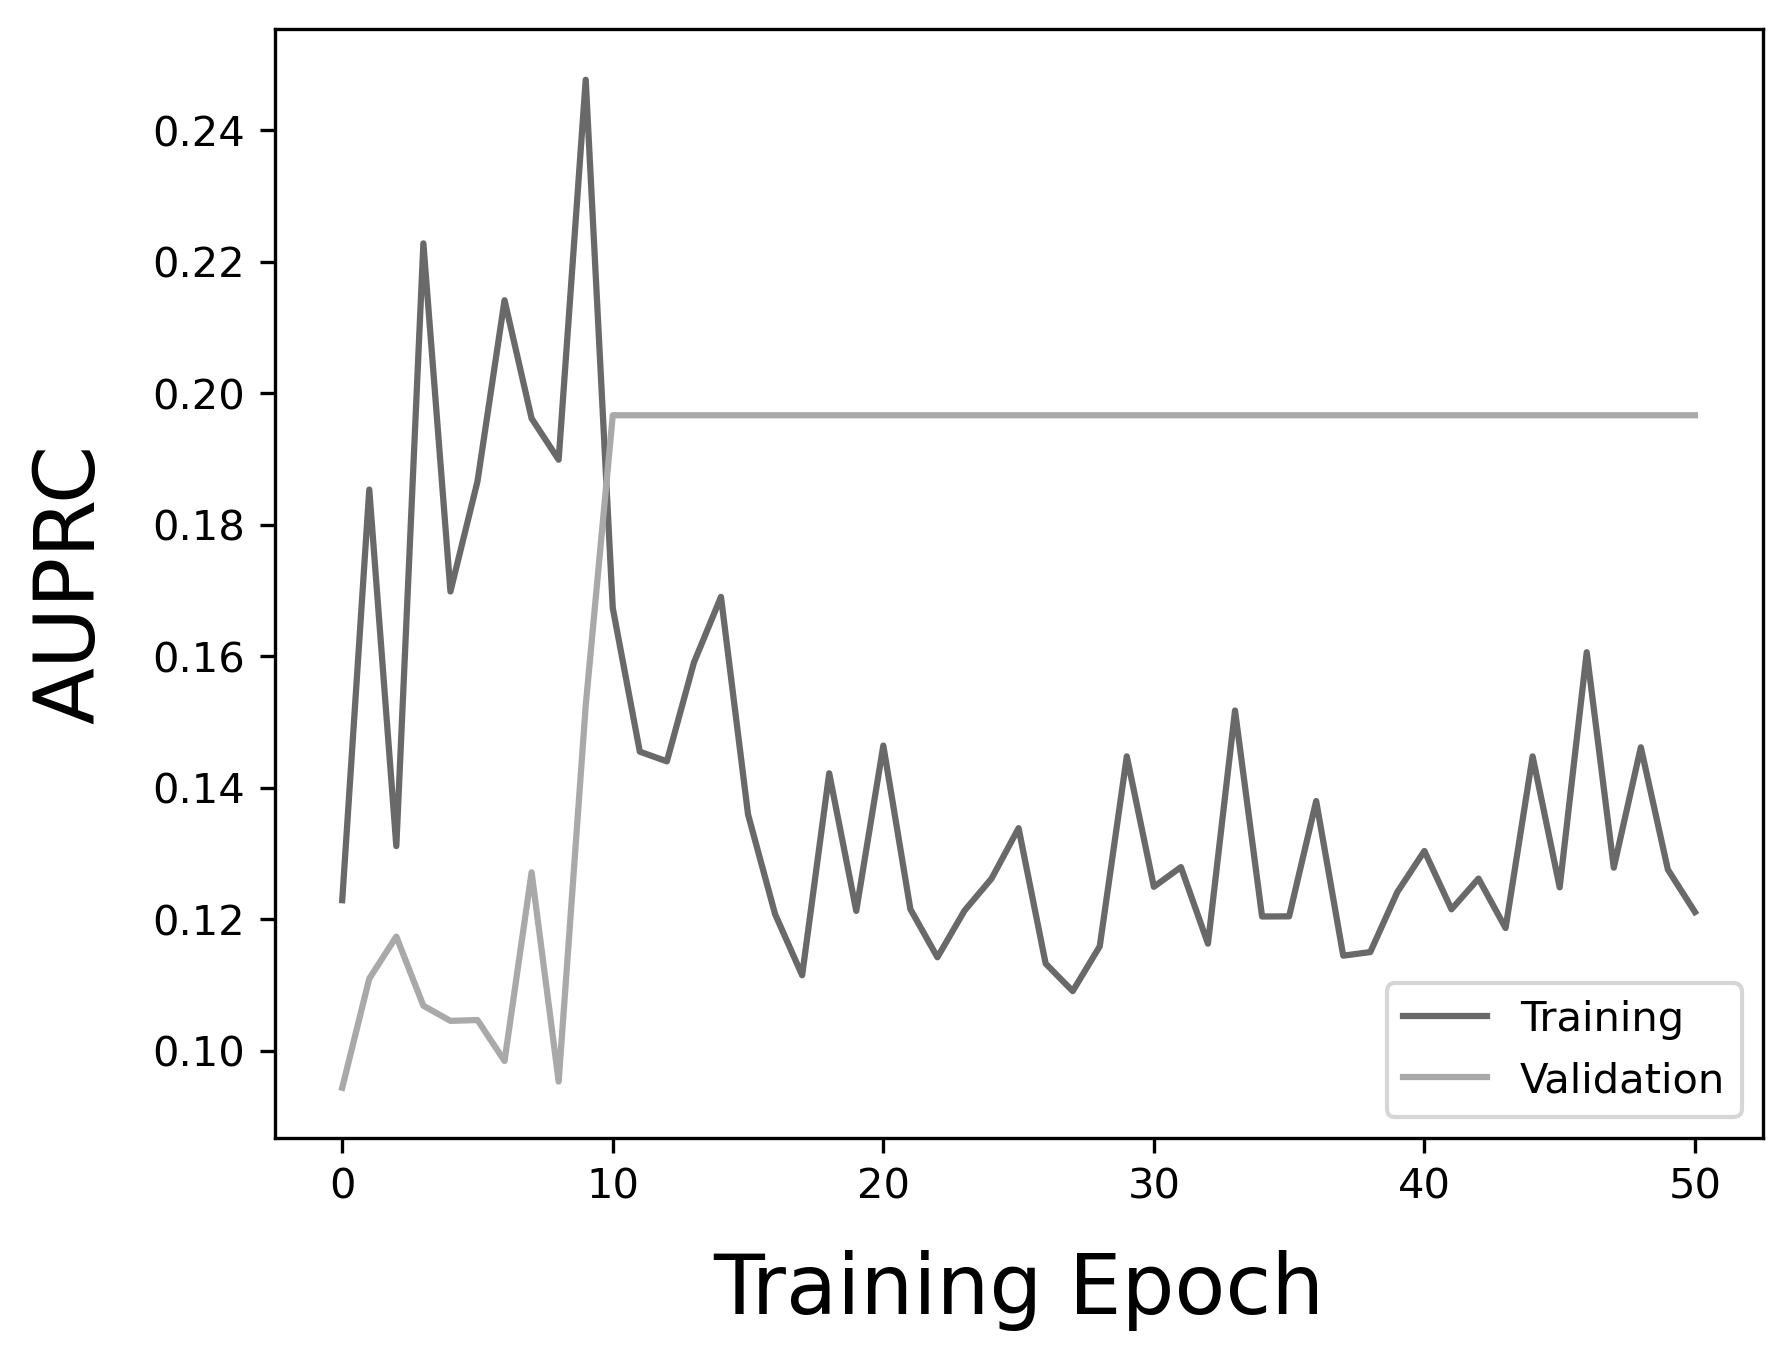
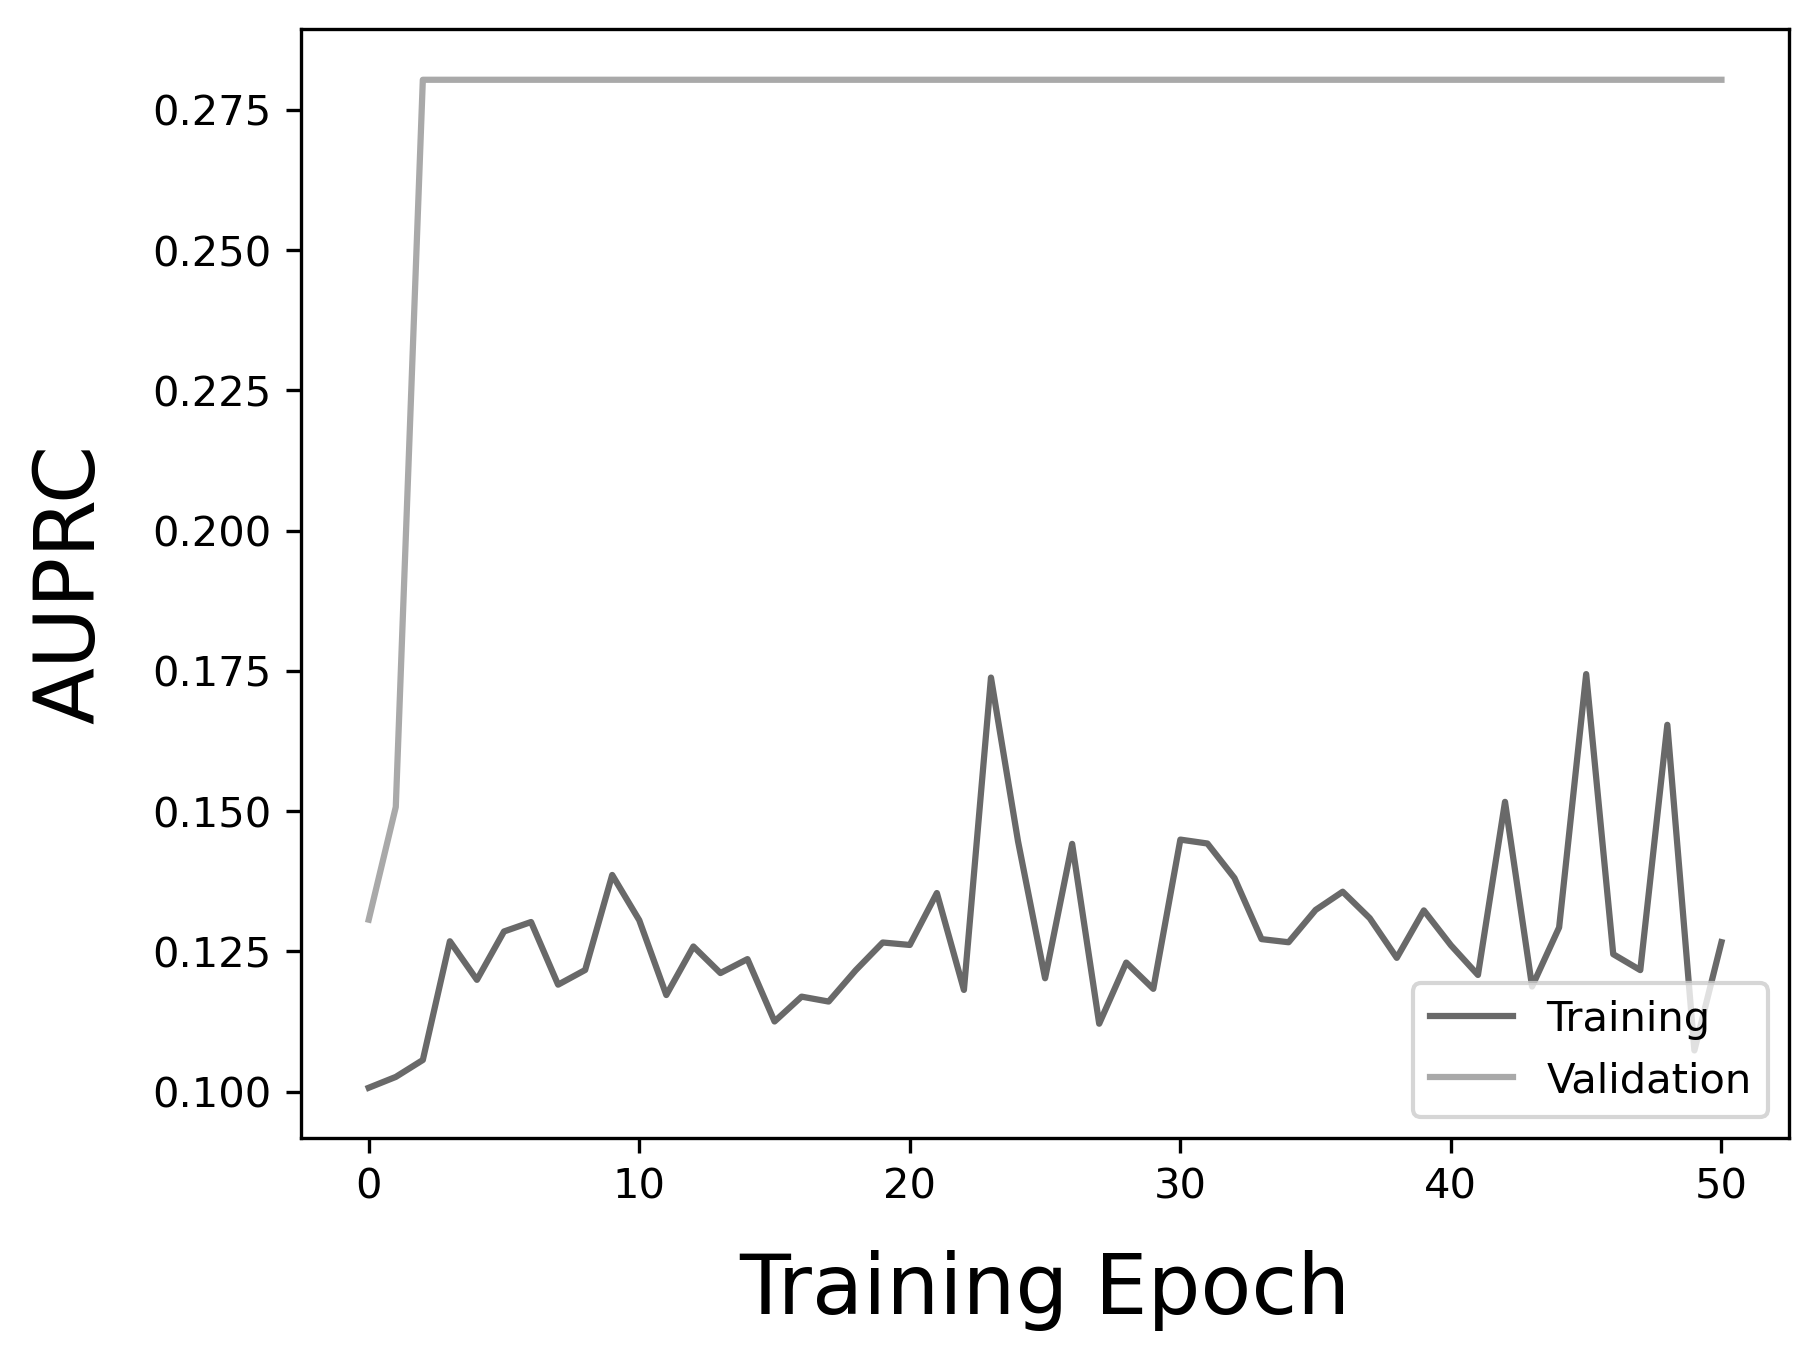
Add soft clipping and outlier smoothing transform

diff --git a/train.py b/train.py
@@ -47,7 +47,7 @@ from monai.data import (
 from monai.utils import set_determinism
 from monai.utils.misc import ensure_tuple_rep
 from scipy.ndimage import binary_closing
-from data.transforms import PercentileSpatialCropd, CorrectBiasFieldd, NyulNormalized
+from data.transforms import SpatialCropPercentiled, NyulNormalized, SoftClipIntensityd, GaussianSmoothOutliersd
 from data.splits import GroupStratifiedSplit
 from data.datasets import CacheSeqDataset
 from data.utils import DatasetPreprocessor, convert_to_dict, convert_to_seqdict, collate_sequence_batch
@@ -545,7 +545,7 @@ def load_train_objs(
     #     num_workers=8,
     #     copy_cache=False) for x in ['train','val']}
     dataloader = {x: ThreadDataLoader(
-        datasets[x], 
+        dataset=datasets[x], 
         batch_size=(args.batch_size if x == 'train' else 1), 
         shuffle=(True if x == 'train' else False),   
         num_workers=0,
@@ -587,50 +587,46 @@ def data_transforms(
             k_divisible=1,
             allow_smaller=False),
         MedianSmoothd(keys=modalities, radius=1),
-        CorrectBiasFieldd(keys=modalities, shrink_factor=4),
         NyulNormalized(
             keys=modalities, 
             standard_hist=landmarks, 
             min_perc=0.01, 
-            max_perc=0.96, 
-            step_size=1, 
-            clip=True),
+            max_perc=0.95),
+        Lambdad(keys=modalities, func=lambda x: torch.where(torch.isnan(x), 1.0, x)),
         ConcatItemsd(keys=modalities, name='image'),
-        PercentileSpatialCropd(
+        SoftClipIntensityd(keys='image', max_value=1.0, channel_wise=True),
+        GaussianSmoothOutliersd(keys='image', max_value=0.99, channel_wise=True),
+        SpatialCropPercentiled(
             keys='image',
-            roi_center=(0.5, 0.35, 0.45),
-            roi_size=(0.85, 0.65, 0.8),
-            min_size=(96, 96, 96)),
-        Lambdad(
-            keys='image', 
-            func=lambda x: torch.where(torch.sum(x) == len(modalities), 0.0, x)),
-        DeleteItemsd(keys=modalities + ['MASK']),
+            roi_center=(0.45, 0.3, 0.45),
+            roi_size=(0.7, 0.45, 0.6),
+            min_size=(80, 80, 80)),
+        DeleteItemsd(keys=modalities + ['MASK'])
     ]
 
     train = [
-        EnsureTyped(keys='image', track_meta=False, device=device),
-        RandSpatialCropSamplesd(keys='image', roi_size=(96, 96, 96), random_size=False, num_samples=1),
+        CenterSpatialCropd(keys='image', roi_size=(96, 96, 96)),
+        EnsureTyped(keys='image', track_meta=False, device=device, dtype=torch.float),
+        RandSpatialCropSamplesd(keys='image', roi_size=(64, 64, 64), random_size=False, num_samples=1),
         RandFlipd(keys='image', prob=0.2, spatial_axis=0),
         RandFlipd(keys='image', prob=0.2, spatial_axis=1),
         RandFlipd(keys='image', prob=0.2, spatial_axis=2),
-        RandStdShiftIntensityd(keys='image', prob=0.5, factors=0.1, channel_wise=True),
         NormalizeIntensityd(
             keys='image', 
-            subtrahend=(0.3043, 0.2643, 0.2611, 0.2619),
-            divisor=(0.2418, 0.2165, 0.2051, 0.1919),
-            nonzero=True, 
-            channel_wise=True)
+            subtrahend=(0.3067, 0.2962, 0.3115, 0.3346),
+            divisor=(0.2268, 0.2088, 0.2013, 0.1911),
+            channel_wise=True),
+        RandStdShiftIntensityd(keys='image', prob=0.5, factors=0.1, channel_wise=True)
     ]
 
     val = [
-        CenterSpatialCropd(keys='image', roi_size=(96, 96, 96)),
+        CenterSpatialCropd(keys='image', roi_size=(80, 80, 80)),
         NormalizeIntensityd(
             keys='image', 
-            subtrahend=(0.3043, 0.2643, 0.2611, 0.2619),
-            divisor=(0.2418, 0.2165, 0.2051, 0.1919),
-            nonzero=True, 
+            subtrahend=(0.3067, 0.2962, 0.3115, 0.3346),
+            divisor=(0.2268, 0.2088, 0.2013, 0.1911),
             channel_wise=True),
-        EnsureTyped(keys='image', track_meta=False, device=device)
+        EnsureTyped(keys='image', track_meta=False, device=device, dtype=torch.float)
     ]
 
     if dataset == 'train':

diff --git a/data/transforms.py b/data/transforms.py
@@ -7,7 +7,7 @@ import numpy as np
 from scipy.interpolate import interp1d
 
 
-class PercentileSpatialCropd(Transform):
+class SpatialCropPercentiled(Transform):
 
     def __init__(
             self,
@@ -185,4 +185,84 @@ class NyulNormalized(Transform):
             else:
                 interp = interp1d(image_landmarks, standard_landmarks, kind='linear', fill_value='extrapolate')
             image[key] = torch.from_numpy(interp(image[key]))
+        return image
+
+
+class SoftClipIntensityd(Transform):
+
+    def __init__(
+            self,
+            keys: str | list,
+            min_value: float | None = None,
+            max_value: float | None = None,
+            channel_wise: bool = False
+        ) -> None:
+
+        self.keys = [keys] if isinstance(keys, str) else keys
+        self.min_value = min_value
+        self.max_value = max_value
+        self.channel_wise = channel_wise
+
+    @staticmethod
+    def softplus(x: torch.Tensor):
+
+        return np.log(1 + np.exp(-np.abs(x))) + np.maximum(x, 0)
+    
+    def softminus(self, x: torch.Tensor):
+
+        return -self.softplus(-x)
+    
+    def softclip(self, x: torch.Tensor):
+
+        # tanh = 1 - np.tanh(1)
+        # const = np.log(2) / tanh
+        const = np.pi ** 0.25
+
+        if self.min_value is not None and self.max_value is not None:
+            const /= (self.max_value - self.min_value) / 2
+
+        v = x
+        if self.min_value is not None:
+            v = v - self.softminus(const * (x - self.min_value)) / const
+        if self.max_value is not None:
+            v = v - self.softplus(const * (x - self.max_value)) / const
+        return v
+
+    
+    def __call__(self, image: torch.Tensor):
+
+        for key in self.keys:
+            if self.channel_wise:
+                for channel in range(image[key].shape[0]):
+                    image[key][channel] = torch.from_numpy(self.softclip(image[key][channel]))
+            else:
+                image[key] = torch.from_numpy(self.softclip(image[key]))
+        return image
+
+
+class GaussianSmoothOutliersd(Transform):
+
+    def __init__(
+            self,
+            keys: str | list,
+            max_value: float,
+            channel_wise: bool = False
+        ) -> None:
+
+        self.keys = [keys] if isinstance(keys, str) else keys
+        self.max_value = max_value
+        self.channel_wise = channel_wise
+
+    def __call__(self, image: torch.Tensor):
+
+        for key in self.keys:
+            if self.channel_wise:
+                for channel in range(image[key].shape[0]):
+                    mask = image[key][channel] > self.max_value
+                    randn_tensor = torch.normal(self.max_value, 0.02, image[key][channel].shape)
+                    image[key][channel][mask] = randn_tensor[mask].type(image[key][channel].dtype)
+            else:
+                mask = image[key] > self.max_value
+                randn_tensor = torch.normal(self.max_value, 0.02, image[key].shape)
+                image[key][mask] = randn_tensor[mask].type(image[key].dtype)
         return image
